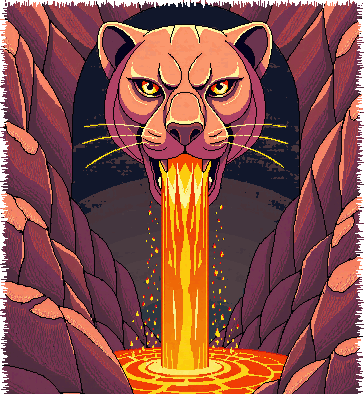
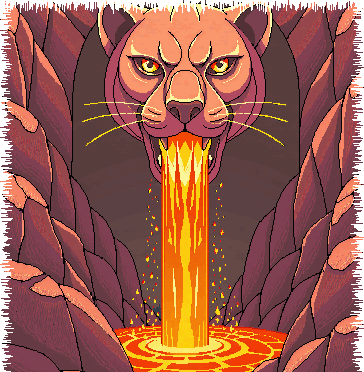
The pouring head joins the massif: deeper terracotta grade, torn fringe, cave-top cropped

diff --git a/src/game/island/IslandMapIso.tsx b/src/game/island/IslandMapIso.tsx
@@ -1540,7 +1540,7 @@ export default function IslandMapIso() {
           try {
             const gart: Record<string, Texture> = {}
             for (const n of ['gate-portal', 'lava-panel']) {
-              const t: Texture = await Assets.load(`/art/island/gate/${n}.png?v=1`)
+              const t: Texture = await Assets.load(`/art/island/gate/${n}.png?v=2`)
               t.source.scaleMode = 'nearest'; gart[n] = t
             }
             const head = (t: Texture, at: [number, number], sc: number, glowMouth: boolean) => {
